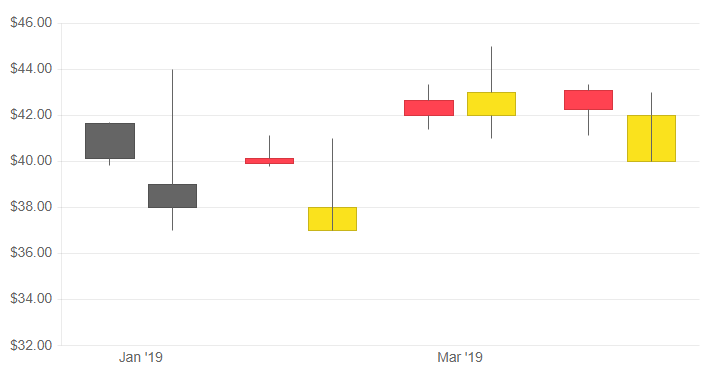
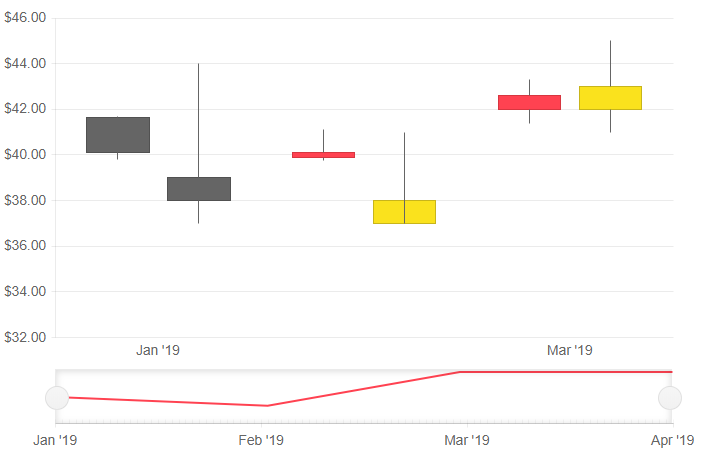
chore(stockchart): added navigator to the examples in databind article

diff --git a/components/stockchart/data-bind.md b/components/stockchart/data-bind.md
@@ -63,6 +63,17 @@ With this, the items from the series will be matched to the items (categories) o
         </StockChartSeries>
     </StockChartSeriesItems>
 
+    <StockChartNavigator>
+        <StockChartNavigatorSeriesItems>
+            <StockChartNavigatorSeries Type="StockChartSeriesType.Line"
+                                       Name="Product 1"
+                                       Data="@StockChartProduct1Data"
+                                       Field="@(nameof(StockDataPoint.High))"
+                                       CategoryField="@(nameof(StockDataPoint.Date))">
+            </StockChartNavigatorSeries>
+        </StockChartNavigatorSeriesItems>
+    </StockChartNavigator>
+
 </TelerikStockChart>
 
 
@@ -79,7 +90,7 @@ With this, the items from the series will be matched to the items (categories) o
     public async Task GenerateChartData()
     {
         StockChartProduct1Data = new List<StockDataPoint>()
-        {
+{
             new StockDataPoint(new DateTime(2019, 1, 1), 41.62m, 40.12m, 41.69m, 39.81m, 2632000),
             new StockDataPoint(new DateTime(2019, 2, 1), 39.88m, 40.12m, 41.12m, 39.75m, 3584700),
             new StockDataPoint(new DateTime(2019, 3, 1), 42m, 42.62m, 43.31m, 41.38m, 7631700),
@@ -87,7 +98,7 @@ With this, the items from the series will be matched to the items (categories) o
         };
 
         StockChartProduct2Data = new List<StockDataPoint>()
-        {   
+{
             new StockDataPoint(new DateTime(2019, 1, 1), 39m, 38m, 44m, 37m, 26320),
             new StockDataPoint(new DateTime(2019, 2, 1), 37m, 38m, 41m, 40m, 35847),
             new StockDataPoint(new DateTime(2019, 3, 1), 42m, 43m, 45m, 41m, 76317),
@@ -159,6 +170,17 @@ With this, the items from the series will be matched to the items (categories) o
                           CategoryField="@nameof(ChartSeriesData.Year)">
         </StockChartSeries>
     </StockChartSeriesItems>
+
+    <StockChartNavigator>
+        <StockChartNavigatorSeriesItems>
+            <StockChartNavigatorSeries Type="StockChartSeriesType.Line"
+                                       Name="Product 1"
+                                       Data="@Data"
+                                       Field="@(nameof(ChartSeriesData.Product1Sales))"
+                                       CategoryField="@(nameof(ChartSeriesData.Year))">
+            </StockChartNavigatorSeries>
+        </StockChartNavigatorSeriesItems>
+    </StockChartNavigator>
 
 </TelerikStockChart>
 
